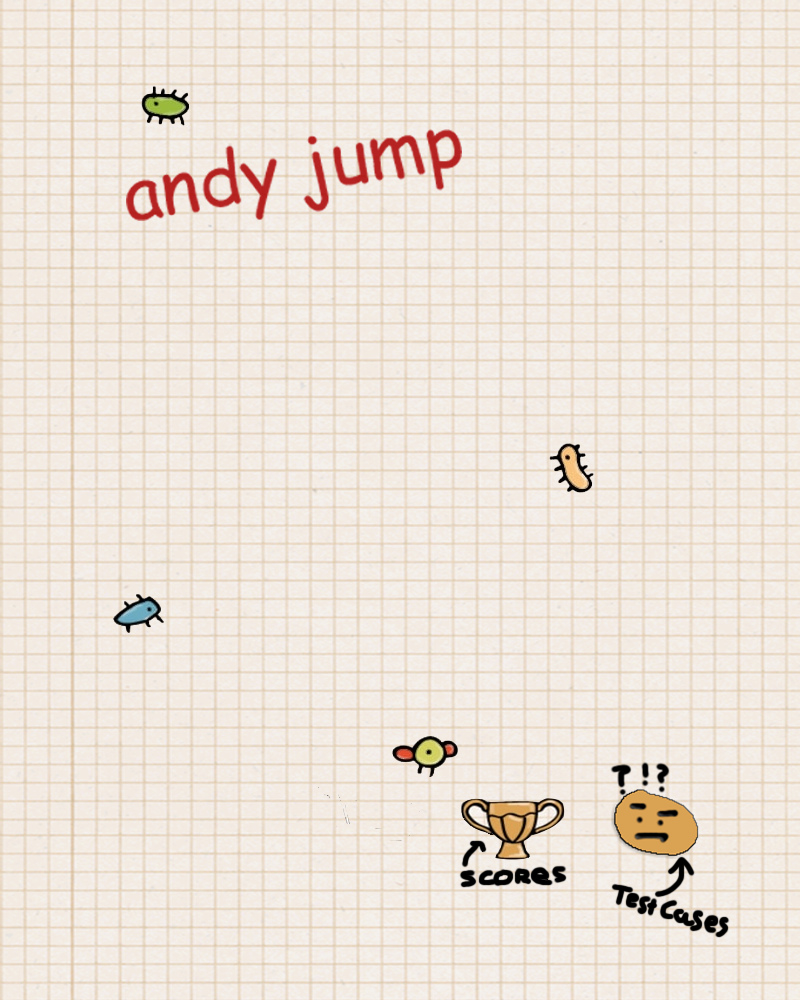
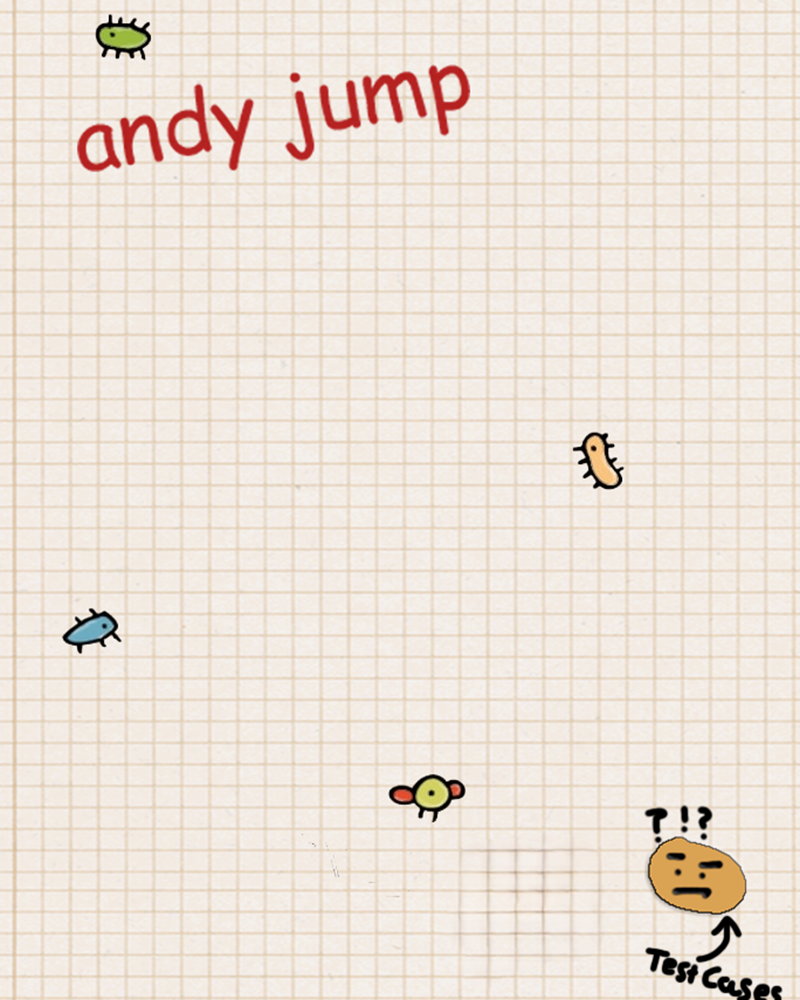
Final push (hopefully) of menus
Just needs to be merged into master

Changed region(s): [[0.0, 0.0, 1.0, 1.0]]

diff --git a/DoodleJumpLab/menu.cpp b/DoodleJumpLab/menu.cpp
@@ -26,6 +26,7 @@ int Menu::Run(sf::RenderWindow& window)
         std::cout << "Error loading file: 'Comic Sans MS.ttf'" << std::endl;
         return -1;
     }
+    //Scores is being removed for final push, not enough time to implement correctly 4/24/24
     sf::RectangleShape scores({ 150.0f,100.0f });
     scores.setPosition({ 440.0f,800.0f });
     scores.setFillColor(sf::Color(255, 255, 255, 0));
@@ -70,17 +71,18 @@ int Menu::Run(sf::RenderWindow& window)
             }
             else if (Event.type == sf::Event::MouseButtonPressed) {
                 //switch for mouse click
-                //scores box
-                //std::cout << "(" << sf::Mouse::getPosition(window).x << ", " << sf::Mouse::getPosition(window).y << ")" << std::endl;
-                if (sf::Mouse::getPosition(window).x > 440.0f && sf::Mouse::getPosition(window).x < 600.0f) {
-                    if (sf::Mouse::getPosition(window).y > 800.0f && sf::Mouse::getPosition(window).y < 900.0f) {
-                        currentSelection = __scores;
-                        //std::cout << "scores clicked" << std::endl;
-                        confirm = 1;
-                        
-                       
-                    }
-                }
+                
+                //scores is removed for the time being, not enough time to properly implement | 4/24/24
+
+                //if (sf::Mouse::getPosition(window).x > 440.0f && sf::Mouse::getPosition(window).x < 600.0f) {
+                //    if (sf::Mouse::getPosition(window).y > 800.0f && sf::Mouse::getPosition(window).y < 900.0f) {
+                //        currentSelection = __scores;
+                //        //std::cout << "scores clicked" << std::endl;
+                //        confirm = 1;
+                //        
+                //       
+                //    }
+                //}
                 //test cases box
                 if (sf::Mouse::getPosition(window).x > 600.0f && sf::Mouse::getPosition(window).x < 775.0f) {
                     if (sf::Mouse::getPosition(window).y > 760.0f && sf::Mouse::getPosition(window).y < 940.0f) {
@@ -105,6 +107,7 @@ int Menu::Run(sf::RenderWindow& window)
                     window.close();
                     return -1;
                     break;
+                //inactive
                 case __scores:
                     
                     running = false;
@@ -120,7 +123,7 @@ int Menu::Run(sf::RenderWindow& window)
             }
             window.clear();
             window.draw(background_spr);
-            window.draw(scores);
+           // window.draw(scores);
             window.draw(test_cases);
             window.draw(play);
             window.draw(exitT);

diff --git a/DoodleJumpLab/game.hpp b/DoodleJumpLab/game.hpp
@@ -8,6 +8,7 @@
 #include <iostream>
 #include "PlatformGenerator.hpp"
 #include "cScreen.hpp"
+#include <vector>
 
 class Game:public cScreen{
 public:
@@ -54,6 +55,20 @@ public:
 		tBullet.loadFromFile("bullet.png");
 		Bullet bullet(posBullet, tBullet);
 
+		//boxes for game over screen
+		sf::Text playAgainTxt, returnMenuTxt;
+		playAgainTxt.setString("Play again!"), returnMenuTxt.setString("Main Menu");
+		std::vector<sf::Text>textList({ playAgainTxt,returnMenuTxt });
+		for (auto& i : textList) {
+			i.setFillColor(sf::Color::White);
+			i.setCharacterSize(23);
+			i.setFont(myFont);
+		}
+		textList[0].setPosition({ 260.0f,600.0f }), textList[1].setPosition({ 460.0f,600.0f });
+		sf::RectangleShape playAgain({ 150.0f,75.0f }), returnMenu({ 150.0f,75.0f });
+		playAgain.setFillColor({ 38, 35, 36,170 }), returnMenu.setFillColor({ 38, 35, 36,170 });
+		playAgain.setPosition({ 250.0f,600.0f }), returnMenu.setPosition({ 450.0f,600.0f });
+
 
 		sf::Texture tAlien;
 		sf::Vector2f posAlien(1090, 1090);
@@ -91,7 +106,7 @@ public:
 
 			rising = pg.checkPlatformCollsion(p1);
 
-			if (rising || jump) {
+			if ((rising || jump)&&(!p1.isFalling())) {
 
 				if (riseCounter == 0) {
 					jump = true;
@@ -115,7 +130,7 @@ public:
 
 			}
 			else {
-				p1.move(0, 0.1);
+				p1.move(0, 0.125f);
 			}
 
 			if (movePlat)
@@ -137,6 +152,24 @@ public:
 				shot = true;
 				moveShot = true;
 
+			}
+			else if (gameOver) {
+				if (e.type == sf::Event::MouseButtonReleased) {
+					if (sf::Mouse::getPosition(window).x > 250.0f && sf::Mouse::getPosition(window).x < 400.0f) {
+						if (sf::Mouse::getPosition(window).y > 600.0f && sf::Mouse::getPosition(window).y < 675.0f) {
+							window.clear();
+							return 1;
+							break;
+						}
+					}
+					else if (sf::Mouse::getPosition(window).x > 450.0f && sf::Mouse::getPosition(window).x < 600.0f) {
+						if (sf::Mouse::getPosition(window).y > 600.0f && sf::Mouse::getPosition(window).y < 675.0f) {
+							return 0;
+							break;
+						}
+					}
+				}
+				
 			}
 
 			if (shot) {
@@ -169,9 +202,15 @@ public:
 			window.draw(alien);
 
 			if (gameOver == true) {
+				window.clear();
+				window.draw(background);
 				scoreText.setString(std::to_string(gameScore));
 				window.draw(text);
 				window.draw(scoreText);
+				window.draw(playAgain);
+				window.draw(returnMenu);
+				window.draw(textList[0]);
+				window.draw(textList[1]);
 			}
 			// end the current frame
 			window.display();

diff --git a/DoodleJumpLab/PlatformGenerator.hpp b/DoodleJumpLab/PlatformGenerator.hpp
@@ -74,9 +74,9 @@ public:
 	void MovePlatformsUp(Alien& alien) {//04/19/2024 moves platforms up when the player reaches a certain point, **04/20/2024 updated to remove platforms when off screen, and add another platform to the back of the vector, thus replacing it at the top, **04/20/2024 condensed down function to simply move platforms, **04/22/2024 added aliens to platforms
 
 		for (int i = 0; i < 6; i++) {
-			mPlatforms[i].move(0, 1);
+			mPlatforms[i].move(0, 1.25f);
 		}
-		alien.move(0, 1);
+		alien.move(0, 1.25f);
 
 	}
 
